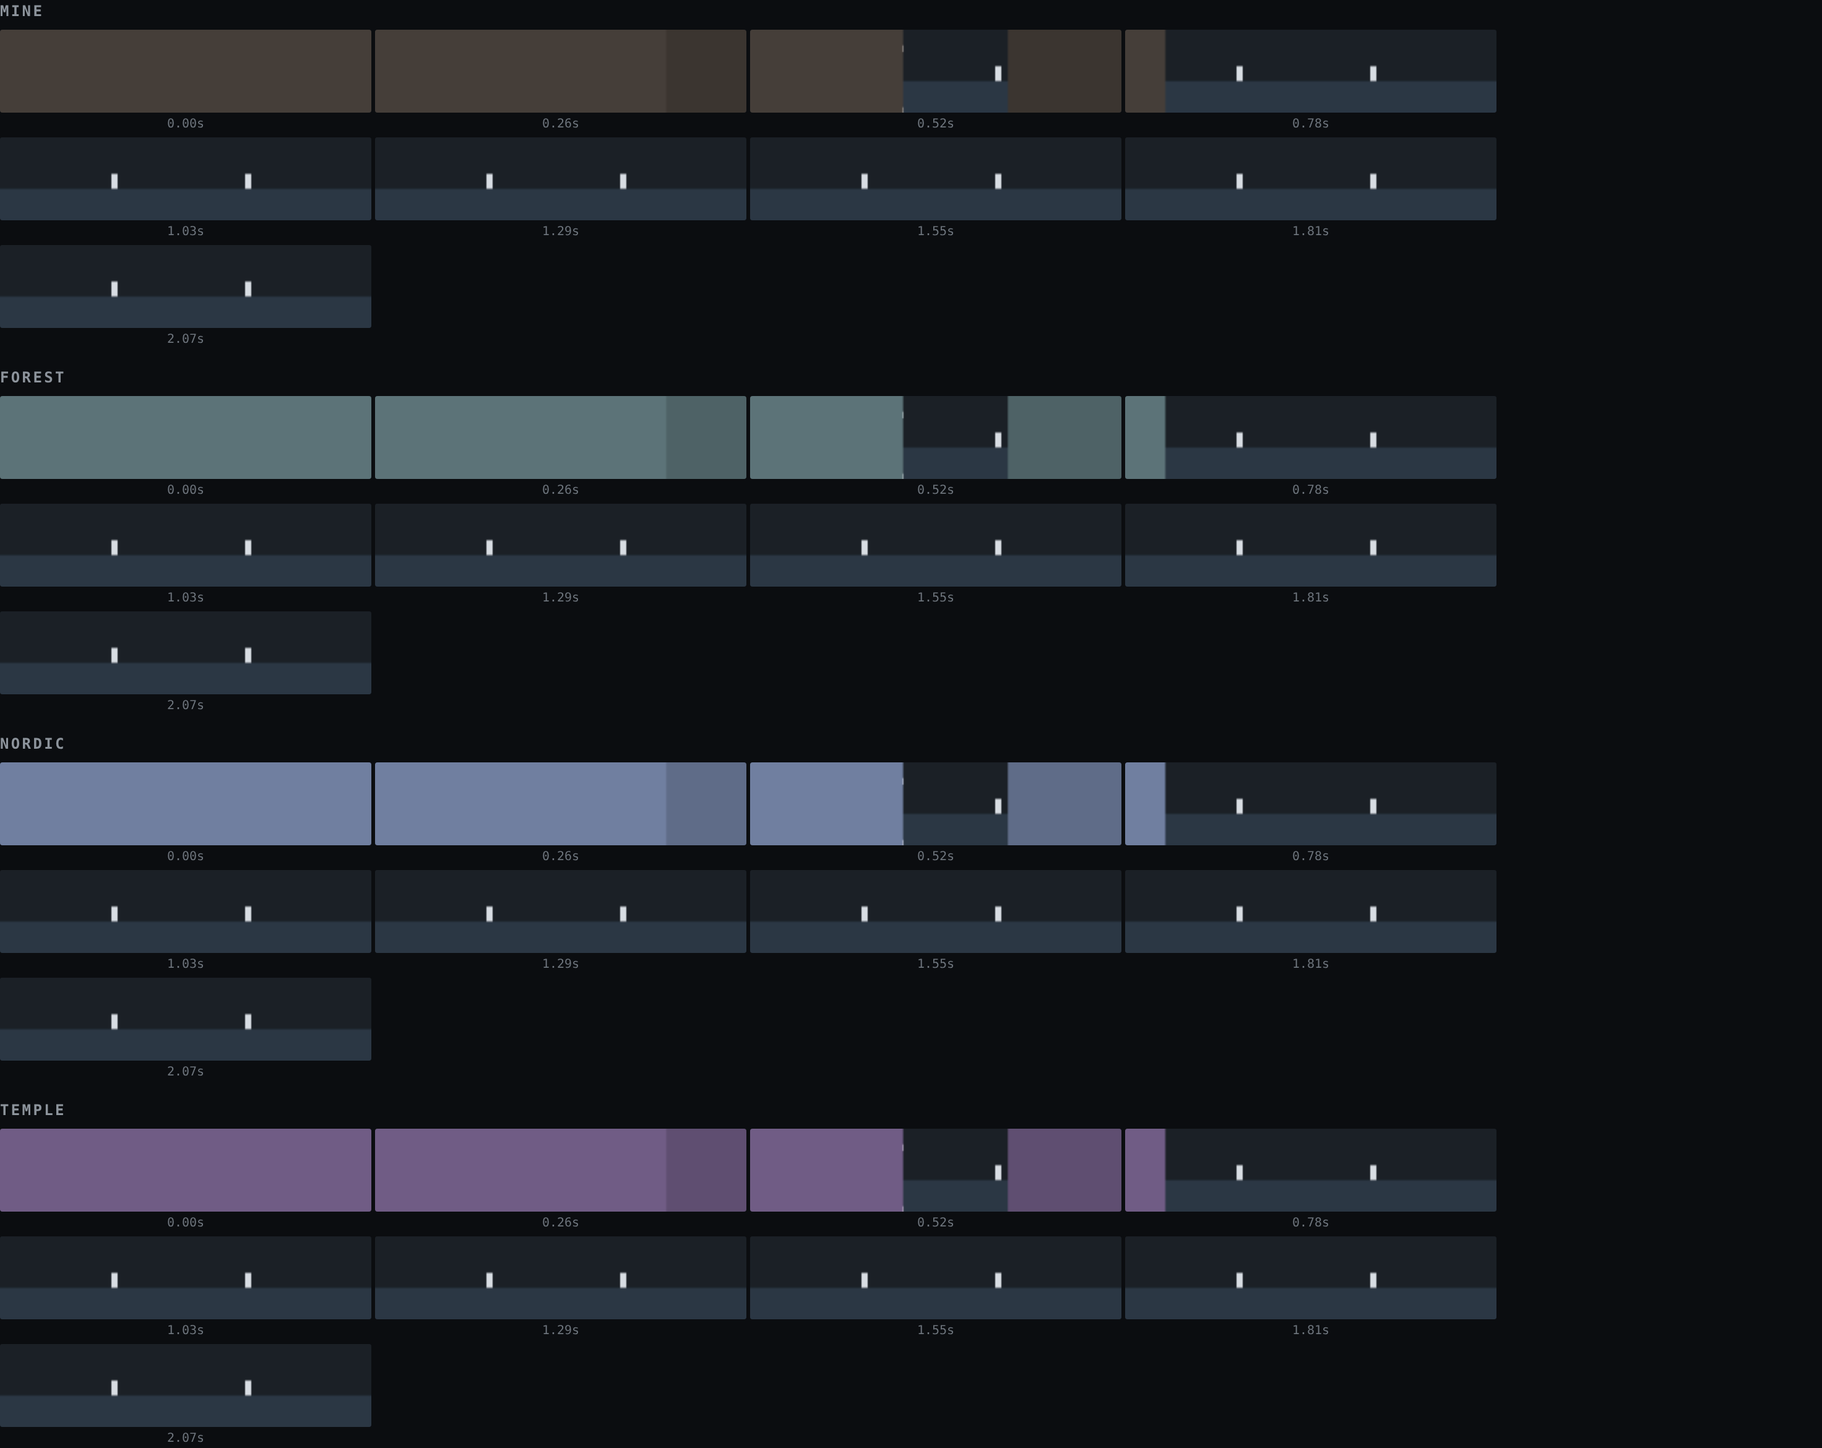
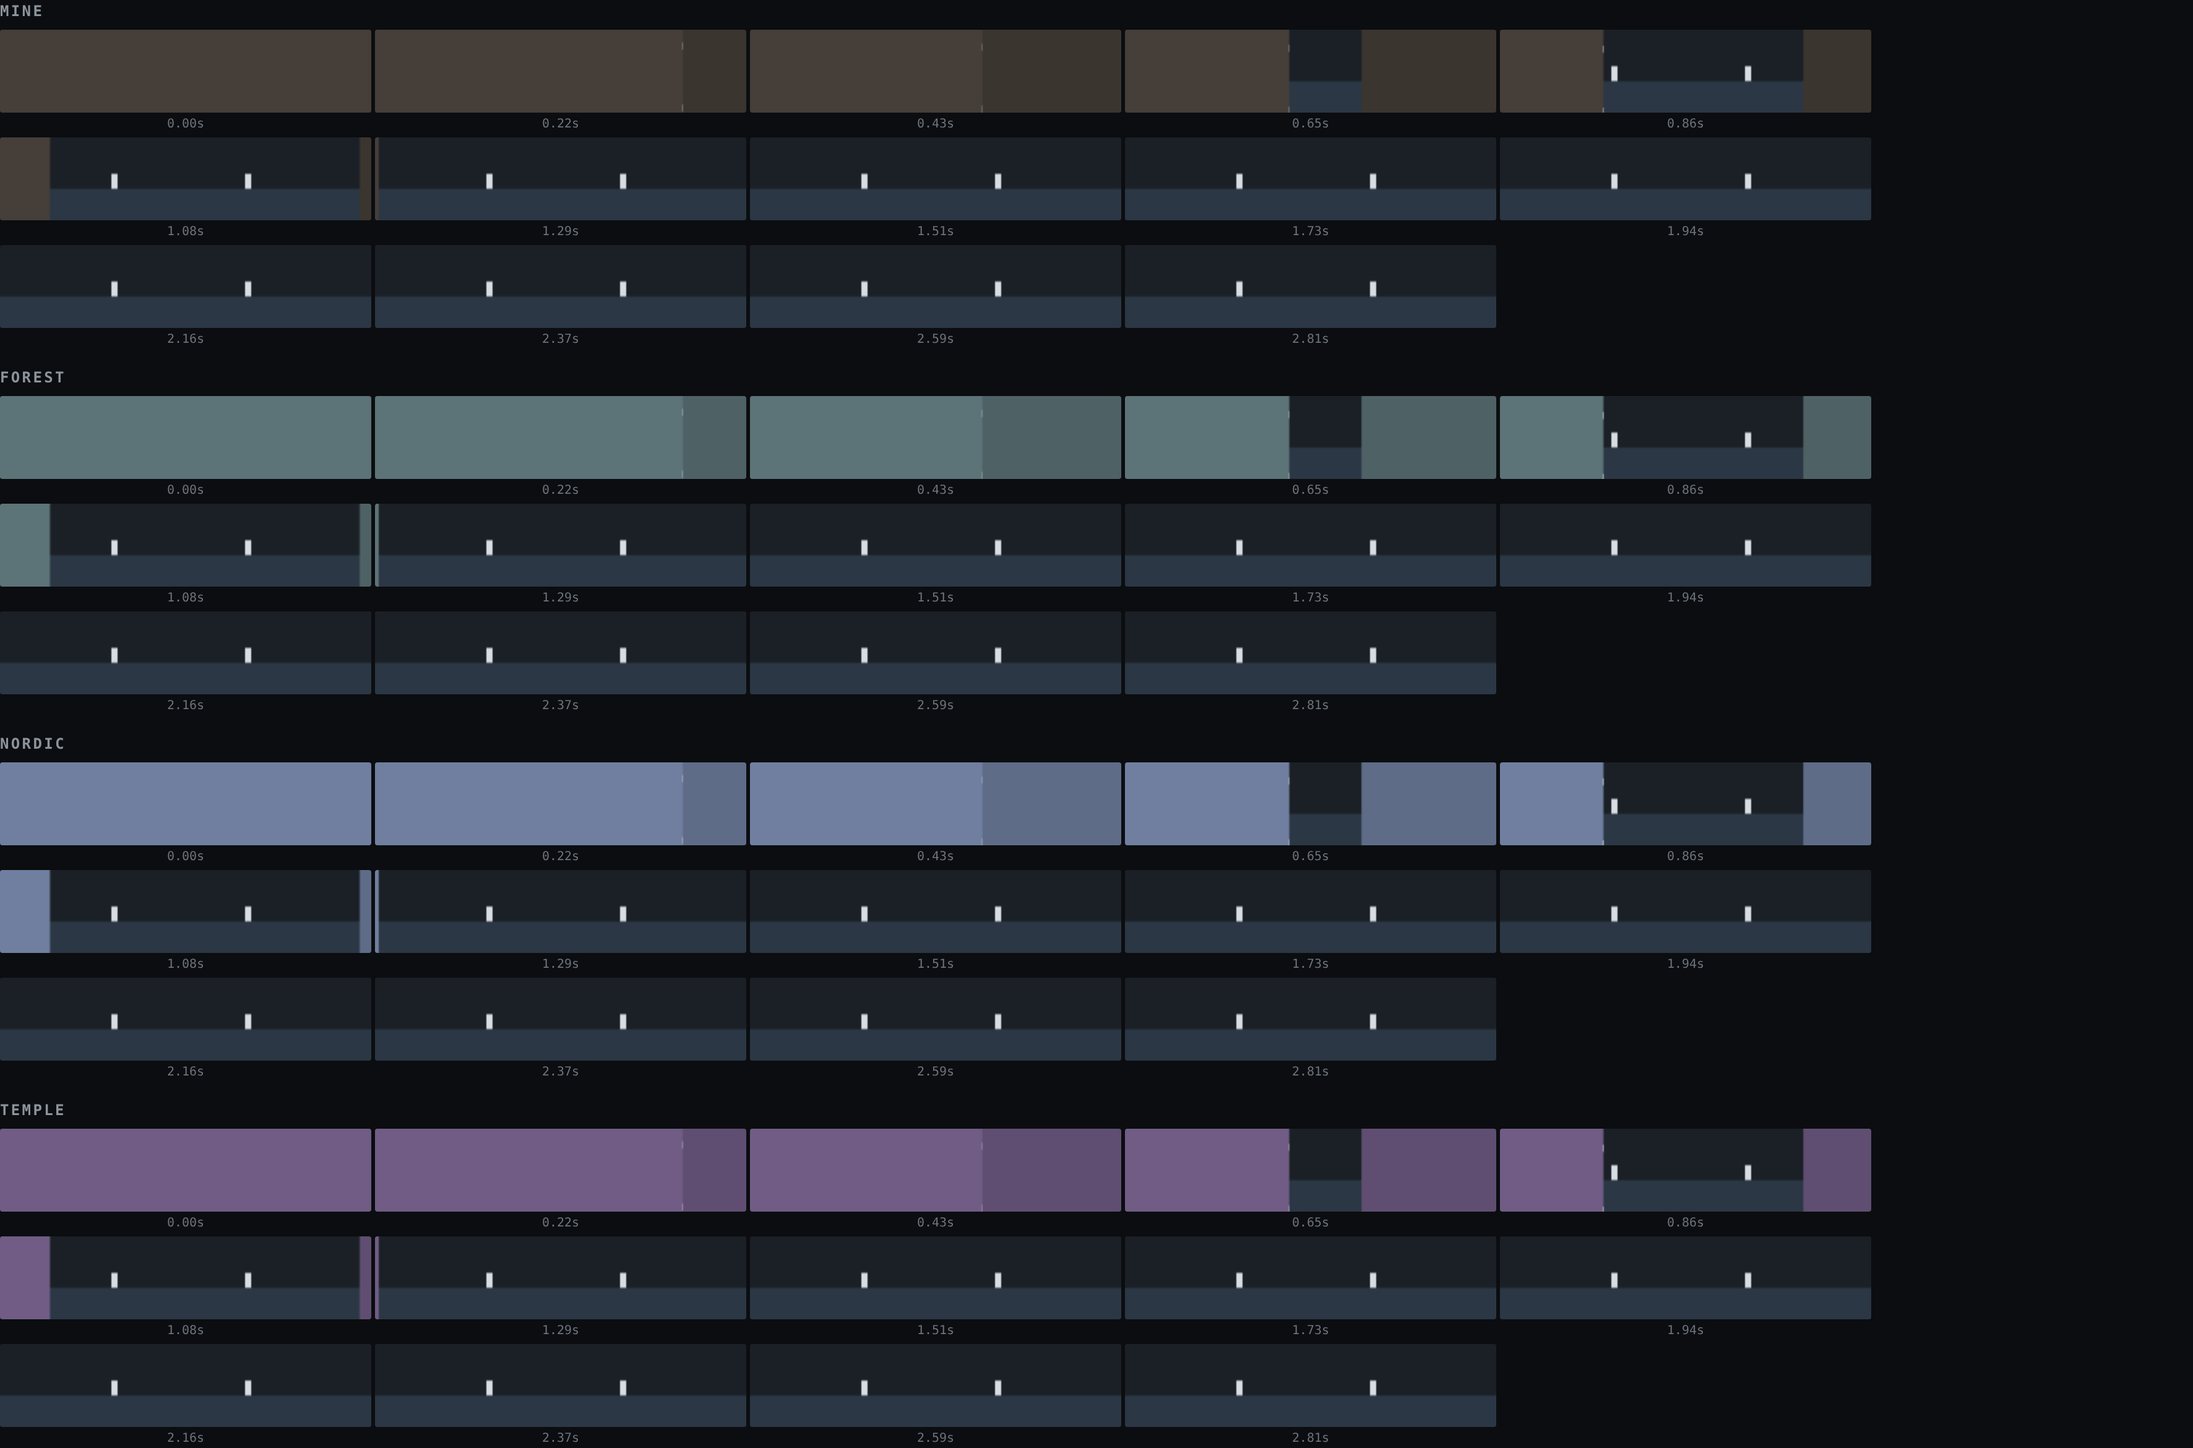
The smoke was never the curve's fault, and the shop moves into the menu
THE SMOKE OPENED TOO FAST, and I blamed the easing twice before measuring
the thing that was actually wrong. Cube, then square, then smoothstep -- and
smoothstep was the worst of the three to watch: its slow start landed on top
of a head start that was already invisible, so the filmstrip showed nothing
at all until 0.93 s and then everything gone by 1.24.

The fault was the WIDTH. At 1.9 frames a layer's edge begins 0.45 of a frame
outside the picture, so nearly a third of every layer's travel happens off
screen, whatever curve it travels on. Nothing, nothing, nothing, sweep.

Narrowed to 1.35, with the rest-stagger down to 0.06 to match, the edges sit
almost at the frame and the first thing the smoke does is visible: edges in
by 0.18 s, the arena showing through by 0.55, the last layer away around
1.4. The curve went back to an ease-out, which now reads as a bank being
drawn aside. The window is longer too -- 0.85 of the hold -- so the far
layer leaves under the "2" rather than before the count has started.

THE SHOP BECOMES A PANEL IN THE MENU, which is what ShopBuilder was written
for in the first place: its own warning says "open the menu scene -- this
hangs off the same canvas". ShopSceneSetup, which turns an EMPTY scene into
a shop, was the later half, and it is the wrong half now.

Three things were missing, and the screen was not one of them:

  MenuUI.shopPanel was fileID 0, so SHOP warned "no panel assigned" and
[…]

diff --git a/docs/refs/vfx/intro.html b/docs/refs/vfx/intro.html
@@ -24,8 +24,8 @@
 <div id=out></div>
 <script>
 const DEPTHS = [1.1, 1.9, 3.0, 4.6];
-const NEAR_DONE_BY = 0.45, STAGGER = 0.11, COVER = 1.9, NEAR_SHADE = 0.55;
-const CLEAR_BY = 0.60, ASPECT = 4.5, CAGE = 3.0;
+const NEAR_DONE_BY = 0.50, STAGGER = 0.06, COVER = 1.35, NEAR_SHADE = 0.55;
+const CLEAR_BY = 0.85, ASPECT = 4.5, CAGE = 3.0;
 const TINT = { mine:'#453e39', forest:'#5c7378', nordic:'#707fa0', temple:'#705c85' };
 
 const band = new Image();
@@ -78,8 +78,8 @@ band.onload = band.onerror = () => {
     out.insertAdjacentHTML('beforeend', `<h2>${theme}</h2>`);
     const strip = document.createElement('div');
     strip.className = 'strip';
-    for (let k = 0; k <= 8; k++) {
-      const held = k / 8 * CLEAR_BY * 1.15;
+    for (let k = 0; k <= 13; k++) {
+      const held = k / 13 * CLEAR_BY * 1.1;
       const fig = document.createElement('figure');
       const c = document.createElement('canvas');
       c.width = 300; c.height = Math.round(300 / ASPECT);

diff --git a/Gulag runners/Assets/_Game/Editor/ShopInMenu.cs b/Gulag runners/Assets/_Game/Editor/ShopInMenu.cs
@@ -1,0 +1,159 @@
+using System.Collections.Generic;
+using UnityEditor;
+using UnityEditor.SceneManagement;
+using UnityEngine;
+using UnityEngine.SceneManagement;
+using GulagRunners.Game;
+using GulagRunners.Meta;
+
+namespace GulagRunners.GameEditor
+{
+    /// <summary>
+    /// Puts the shop and wardrobe INSIDE the menu, as a panel, and wires it to PLAY's
+    /// neighbour buttons.
+    ///
+    /// The screen itself was always built for this: ShopBuilder hangs off a screen-space
+    /// canvas and its own warning says "open the menu scene -- this hangs off the same
+    /// canvas". What came later was ShopSceneSetup, which makes an EMPTY scene into a shop
+    /// so the builder has somewhere to stand. Asked for plainly: the shop lives in the
+    /// menu, so the scene setup is the wrong half of the pair and this is the right one.
+    ///
+    /// Three things were missing, and none of them is the screen:
+    ///
+    ///   THE PANEL WAS NEVER WIRED. MenuUI.shopPanel was fileID 0, so the SHOP button
+    ///       warned "no panel assigned" and nothing opened. The same is true of profile,
+    ///       dailies, settings and friends; this wires the shop and says which of the
+    ///       others are still empty rather than leaving them to be found one at a time.
+    ///
+    ///   TWO CAMERAS WERE ENABLED AT THE SAME DEPTH. Main Camera and the hand-placed
+    ///       ShopCamera, both on depth -1, which is undefined: Unity renders both and
+    ///       which one survives is which was registered last. The shop camera is a POSE --
+    ///       a place to stand, framed by hand -- so its Camera component comes off and
+    ///       MenuShopView walks the real camera to it while the panel is open.
+    ///
+    ///   THE PANEL HAS TO START CLOSED. MenuUI.Open turns it on; something has to have
+    ///       turned it off, or the menu opens with the wardrobe already over it.
+    ///
+    /// Run it in the menu scene. Safe to run twice: the screen is thrown away and rebuilt.
+    /// </summary>
+    public static class ShopInMenu
+    {
+        [MenuItem("Tools/Gulag Runners/Setup/Build the shop into the menu")]
+        public static void Run()
+        {
+            Scene scene = SceneManager.GetActiveScene();
+
+            MenuUI ui = Object.FindFirstObjectByType<MenuUI>(FindObjectsInactive.Include);
+            if (ui == null)
+            {
+                Debug.LogWarning($"{scene.name} has no MenuUI in it, so there is no menu "
+                                 + "for a shop to be a panel of. Open the menu scene.");
+                return;
+            }
+
+            List<string> did = new List<string>();
+            List<string> todo = new List<string>();
+
+            // ---- the screen, built by the tool that already knows how
+            CosmeticCatalogue catalogue = Find<CosmeticCatalogue>();
+            if (catalogue == null)
+                todo.Add("no CosmeticCatalogue asset was found, so the tabs will be empty");
+
+            ShopBuilder.BuildInto(null, catalogue);
+
+            GameObject panel = GameObject.Find("Shop UI");
+            if (panel == null)
+            {
+                foreach (ShopUI found in Object.FindObjectsByType<ShopUI>(
+                             FindObjectsInactive.Include, FindObjectsSortMode.None))
+                    panel = found.gameObject;
+            }
+
+            if (panel == null)
+            {
+                Debug.LogWarning(
+                    "The shop screen did not get built, so there is nothing to wire. "
+                    + "ShopBuilder needs a screen-space Canvas at the root of the scene -- "
+                    + "run Tools > Gulag Runners > Build the menu screen first.");
+                return;
+            }
+
+            // ---- wired to the button, and shut
+            Undo.RecordObject(ui, "Build the shop into the menu");
+            ui.shopPanel = panel;
+            EditorUtility.SetDirty(ui);
+            did.Add("SHOP opens the panel");
+
+            Undo.RecordObject(panel, "Build the shop into the menu");
+            panel.SetActive(false);
+            did.Add("it starts closed");
+
+            // ---- the pose, and the second camera that must not be a camera
+            Camera main = Camera.main;
+            Transform pose = null;
+            foreach (Camera cam in Object.FindObjectsByType<Camera>(
+                         FindObjectsInactive.Include, FindObjectsSortMode.None))
+            {
+                if (cam == main) continue;
+                if (!cam.name.ToLowerInvariant().Contains("shop")) continue;
+
+                pose = cam.transform;
+                if (cam.enabled)
+                {
+                    Undo.RecordObject(cam, "Build the shop into the menu");
+                    cam.enabled = false;
+                    did.Add($"{cam.name} is a pose now, not a second camera");
+                }
+            }
+
+            if (pose == null)
+                todo.Add("no object named *Shop* with a Camera on it, so there is no pose "
+                         + "to move to -- place one where the wardrobe should be framed "
+                         + "and run this again");
+
+            MenuShopView view = Object.FindFirstObjectByType<MenuShopView>(
+                FindObjectsInactive.Include);
+            if (view == null && ui != null)
+                view = Undo.AddComponent<MenuShopView>(ui.gameObject);
+
+            if (view != null)
+            {
+                Undo.RecordObject(view, "Build the shop into the menu");
+                view.ui = ui;
+                view.shopPose = pose;
+                if (view.view == null && main != null) view.view = main.transform;
+                EditorUtility.SetDirty(view);
+                did.Add("the camera walks to the shop view");
+            }
+
+            // ---- say what else is still a fileID 0
+            foreach ((string what, GameObject which) in new[]
+                     {
+                         ("profile", ui.profilePanel),
+                         ("dailies", ui.dailiesPanel),
+                         ("settings", ui.settingsPanel),
+                         ("friends", ui.friendsPanel),
+                     })
+                if (which == null) todo.Add($"{what} has no panel assigned either");
+
+            EditorSceneManager.MarkSceneDirty(scene);
+
+            string said = $"{scene.name}: the shop is in the menu -- "
+                          + string.Join(", ", did) + ".";
+            if (todo.Count > 0)
+                Debug.LogWarning(said + "\n  Still open:\n    " + string.Join("\n    ", todo));
+            else
+                Debug.Log(said);
+        }
+
+        static T Find<T>() where T : ScriptableObject
+        {
+            foreach (string guid in AssetDatabase.FindAssets("t:" + typeof(T).Name))
+            {
+                T got = AssetDatabase.LoadAssetAtPath<T>(AssetDatabase.GUIDToAssetPath(guid));
+                if (got != null) return got;
+            }
+            return null;
+        }
+    }
+}

diff --git a/Gulag runners/Assets/_Game/Menu/MenuShopView.cs b/Gulag runners/Assets/_Game/Menu/MenuShopView.cs
@@ -1,0 +1,83 @@
+using UnityEngine;
+
+namespace GulagRunners.Game
+{
+    /// <summary>
+    /// Moves the menu's camera to the shop's view while the shop is open.
+    ///
+    /// The shop is a PANEL in the menu, not a scene of its own, and that decides what this
+    /// has to be. A separate scene would have had its own camera and its own load; a panel
+    /// shares the cell the player is standing in, so opening the wardrobe has to feel like
+    /// turning to look at it rather than cutting somewhere else.
+    ///
+    /// SO THE SHOP CAMERA IS A POSE, NOT A CAMERA. There were two enabled cameras in the
+    /// menu scene at the same depth -- Main Camera and ShopCamera -- which is undefined:
+    /// Unity renders both and which one you see is which was registered last. The second
+    /// one is a place to stand, marked out by hand, and this walks the real camera to it
+    /// and back. One camera, one render, and the pose keeps whatever framing it was given.
+    ///
+    /// Nothing here knows what a shop is. It watches the string MenuUI already keeps for
+    /// which panel is open, so a second pose for a second panel is two lines.
+    /// </summary>
+    [DisallowMultipleComponent]
+    public sealed class MenuShopView : MonoBehaviour
+    {
+        [Tooltip("Leave empty to find the MenuUI in the scene.")]
+        public MenuUI ui;
+
+        [Tooltip("What moves. Leave empty to use the main camera.")]
+        public Transform view;
+
+        [Tooltip("Where to stand while the shop is open -- the ShopCamera object, used as " +
+                 "a marker. Its own Camera component is switched off by the setup tool: " +
+                 "two enabled cameras at the same depth is undefined.")]
+        public Transform shopPose;
+
+        [Tooltip("Which panel this pose belongs to, as MenuUI names it.")]
+        public string panel = "Shop";
+
+        [Tooltip("Seconds to get there. Long enough to read as a move and short enough " +
+                 "that a player who opens the shop to change one thing is not waiting.")]
+        [Range(0.05f, 2f)] public float seconds = 0.45f;
+
+        Vector3 _homePos;
+        Quaternion _homeRot;
+        bool _known;
+
+        void Awake()
+        {
+            if (ui == null) ui = FindFirstObjectByType<MenuUI>(FindObjectsInactive.Include);
+            if (view == null && Camera.main != null) view = Camera.main.transform;
+        }
+
+        void OnEnable()
+        {
+            // The home pose is wherever the camera was when the menu came up, so moving
+            // the camera in the scene moves the home with it. Taken once: sampling it
+            // every frame would make home follow the shop and the camera never come back.
+            if (view != null && !_known)
+            {
+                _homePos = view.position;
+                _homeRot = view.rotation;
+                _known = true;
+            }
+        }
+
+        void LateUpdate()
+        {
+            if (view == null || ui == null || !_known) return;
+
+            bool open = shopPose != null && ui.openPanel == panel;
+
+            Vector3 wantPos = open ? shopPose.position : _homePos;
+            Quaternion wantRot = open ? shopPose.rotation : _homeRot;
+
+            // Framerate-independent easing: the share of the remaining distance covered in
+            // a second is what `seconds` means, so a phone at 30 and one at 60 arrive
+            // together. A plain Lerp on deltaTime does not.
+            float k = 1f - Mathf.Exp(-Time.unscaledDeltaTime * (5f / Mathf.Max(0.05f, seconds)));
+            view.position = Vector3.Lerp(view.position, wantPos, k);
+            view.rotation = Quaternion.Slerp(view.rotation, wantRot, k);
+        }
+    }
+}

diff --git a/Gulag runners/Assets/_Game/Presentation/RoundIntroSmoke.cs b/Gulag runners/Assets/_Game/Presentation/RoundIntroSmoke.cs
@@ -47,21 +47,21 @@ namespace GulagRunners.Game
         [Tooltip("Share of the hold the smoke takes to get out of the frame. The rest of " +
                  "the hold is the countdown on its own, which is what the second and third " +
                  "rounds are entirely.")]
-        [Range(0.15f, 1f)] public float clearBy = 0.60f;
+        [Range(0.15f, 1f)] public float clearBy = 0.85f;
 
         [Tooltip("Share of the clearing window by which the NEAREST layer is gone. The " +
                  "furthest is gone exactly at the end, and the ones between are spread " +
                  "across. This is what makes the depth: they all leave, at different times.")]
-        [Range(0.2f, 1f)] public float nearDoneBy = 0.45f;
+        [Range(0.2f, 1f)] public float nearDoneBy = 0.50f;
 
         [Tooltip("How far each layer is offset sideways at rest, in frame widths. Without " +
                  "it the four start exactly on top of one another and the first frame of " +
                  "the round is one flat field of colour with no edge in it.")]
-        [Range(0f, 0.4f)] public float stagger = 0.11f;
+        [Range(0f, 0.4f)] public float stagger = 0.06f;
 
         [Tooltip("How much wider than the frame a layer is, as a multiple. It has to still " +
                  "cover the frame once it has started moving.")]
-        [Range(1.2f, 3f)] public float coverWide = 1.9f;
+        [Range(1.1f, 3f)] public float coverWide = 1.35f;
 
         [Tooltip("How dark the NEAREST layer is against the furthest, which is the tint as " +
                  "given. Without a difference between them the four are one flat field of " +
@@ -139,10 +139,18 @@ namespace GulagRunners.Game
                 float by = Mathf.Lerp(nearDoneBy, 1f, depths.Length <= 1
                     ? 1f : i / (float)(depths.Length - 1));
                 float own = Mathf.Clamp01(t / Mathf.Max(0.01f, by));
-                // Squared, not cubed. A cube front-loads the movement so hard that the
-                // whole bank was off the frame in six tenths of a second, leaving two and a
-                // half of the hold with nothing in it -- the filmstrip in
-                // docs/refs/vfx/intro.html is where that showed.
+                // Ease OUT: moving from the first frame, settling rather than stopping.
+                //
+                // The curve was the wrong thing to blame, and I blamed it twice. A cube, then
+                // a square, then smoothstep -- and smoothstep was the worst of the three to
+                // watch, because its slow start lands on top of a head start that is already
+                // invisible. The real fault was the WIDTH: at 1.9 frames the quad's edge
+                // begins 0.45 of a frame outside the picture, so nearly a third of every
+                // layer's travel happens off screen. Nothing, nothing, nothing, then a sweep.
+                //
+                // Narrower quads put the edges almost at the frame, so the first thing the
+                // smoke does is visible, and an ease-out then reads as a bank being drawn
+                // aside rather than yanked.
                 float eased = 1f - (1f - own) * (1f - own);
 
                 // Far enough that the trailing edge is off the frame: half the quad plus
